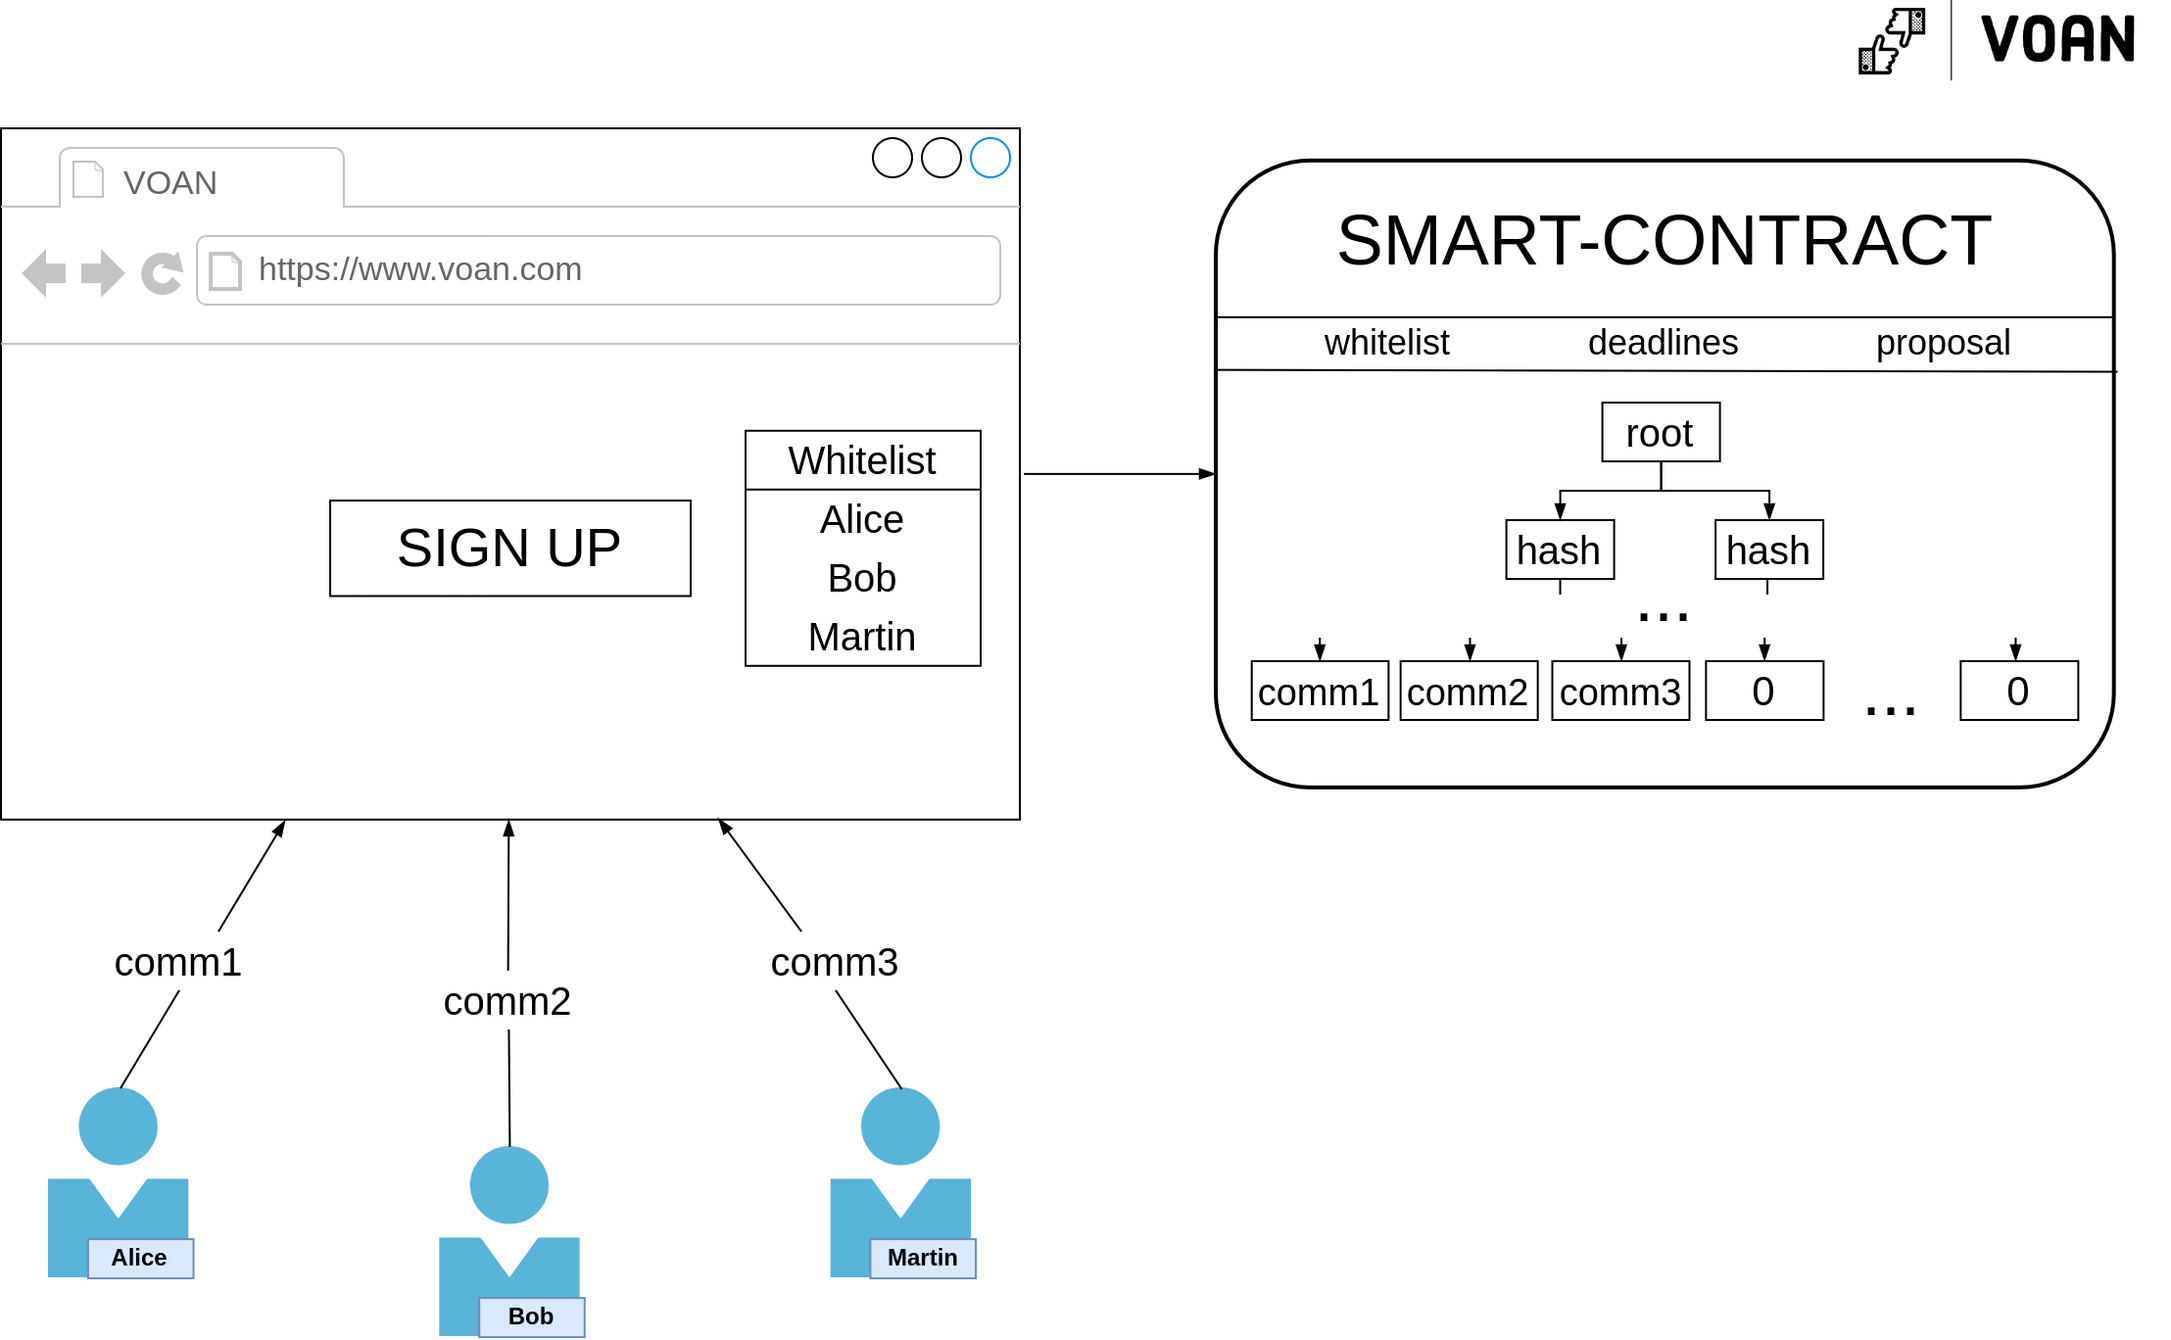
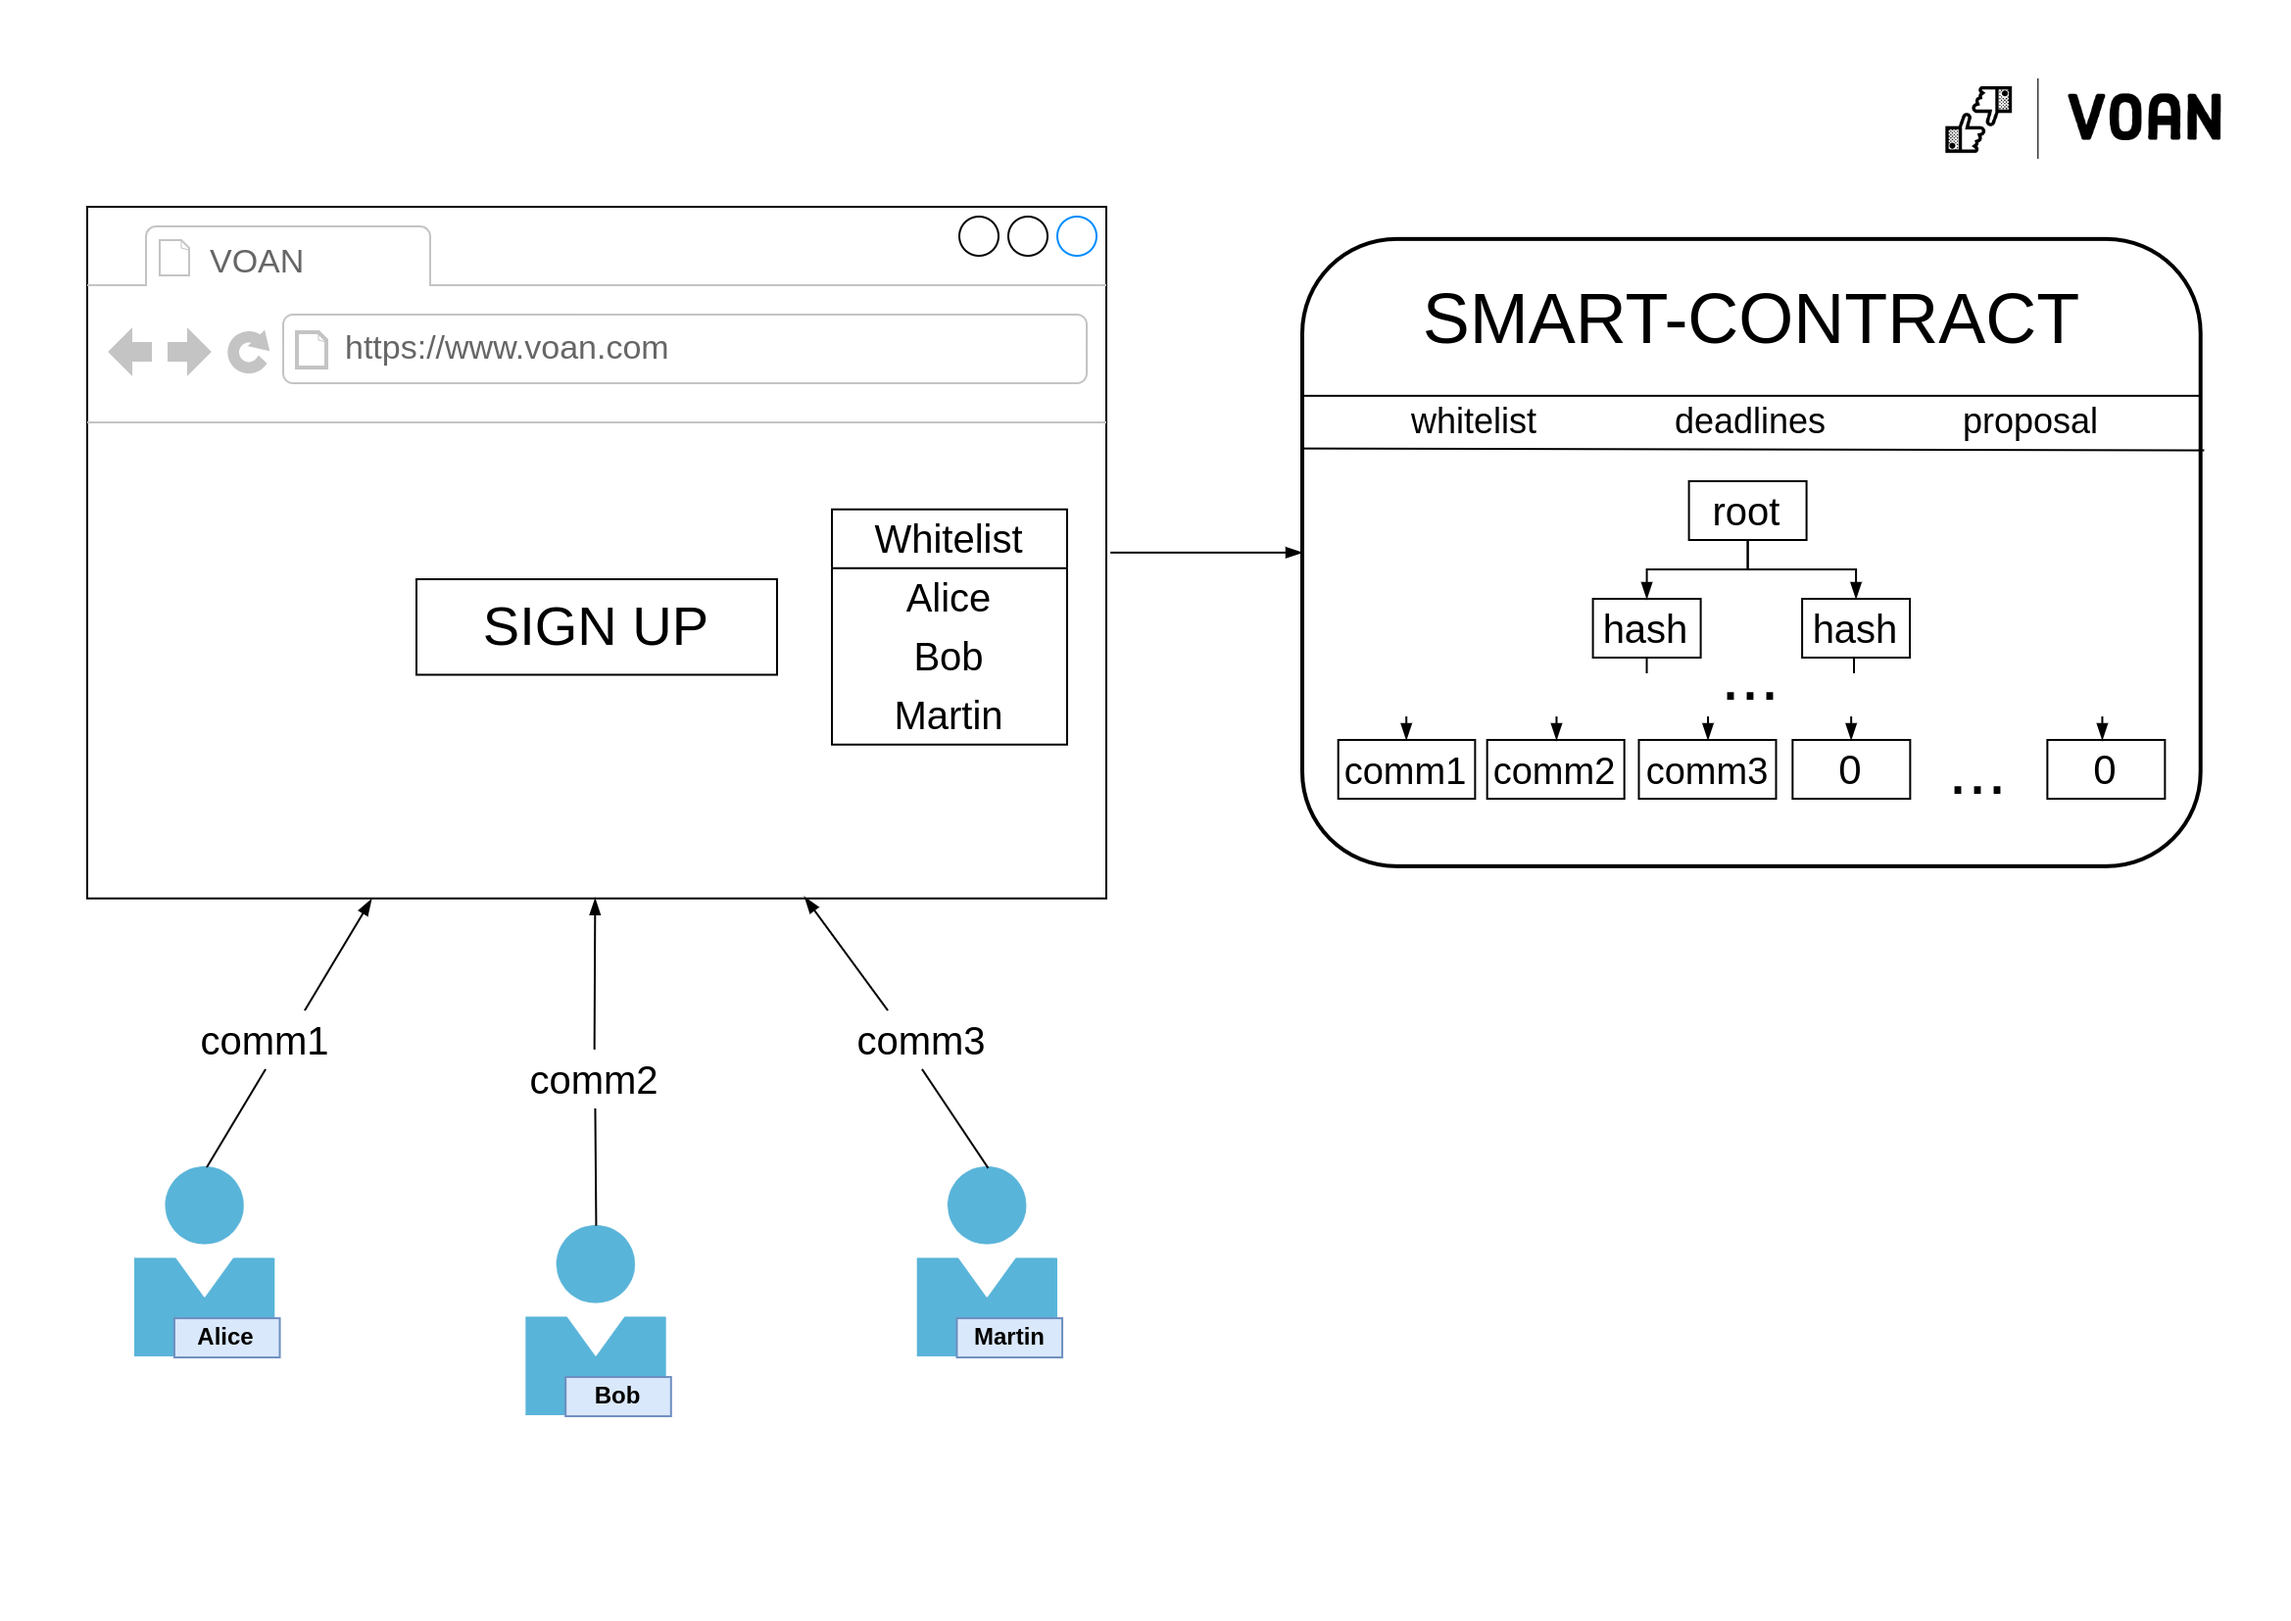
docs: update diagrams and sizes

diff --git a/README.md b/README.md
@@ -47,7 +47,7 @@ Now, let's discuss how to solve the first problem ... the solution is really sim
 **Voting creation/initialization**:
 
 <p align="center">
-    <img src="./images/creating.png" height="300">
+    <img src="./images/creating.png" height="330">
 </p>
 <p align="center">
     <i>Voting creation scheme</i>
@@ -58,7 +58,7 @@ Done by host as described earlier.
 **Registration**:
 
 <p align="center">
-    <img src="./images/registration.png" height="300">
+    <img src="./images/registration.png" height="330">
 </p>
 <p align="center">
     <i>Registration scheme</i>
@@ -69,7 +69,7 @@ People from whitelist can sign up for voting by submitting a `commitment = Hash(
 **Voting**:
 
 <p align="center">
-    <img src="./images/voting.png" height="300">
+    <img src="./images/voting.png" height="330">
 </p>
 <p align="center">
     <i>Voting scheme</i>
